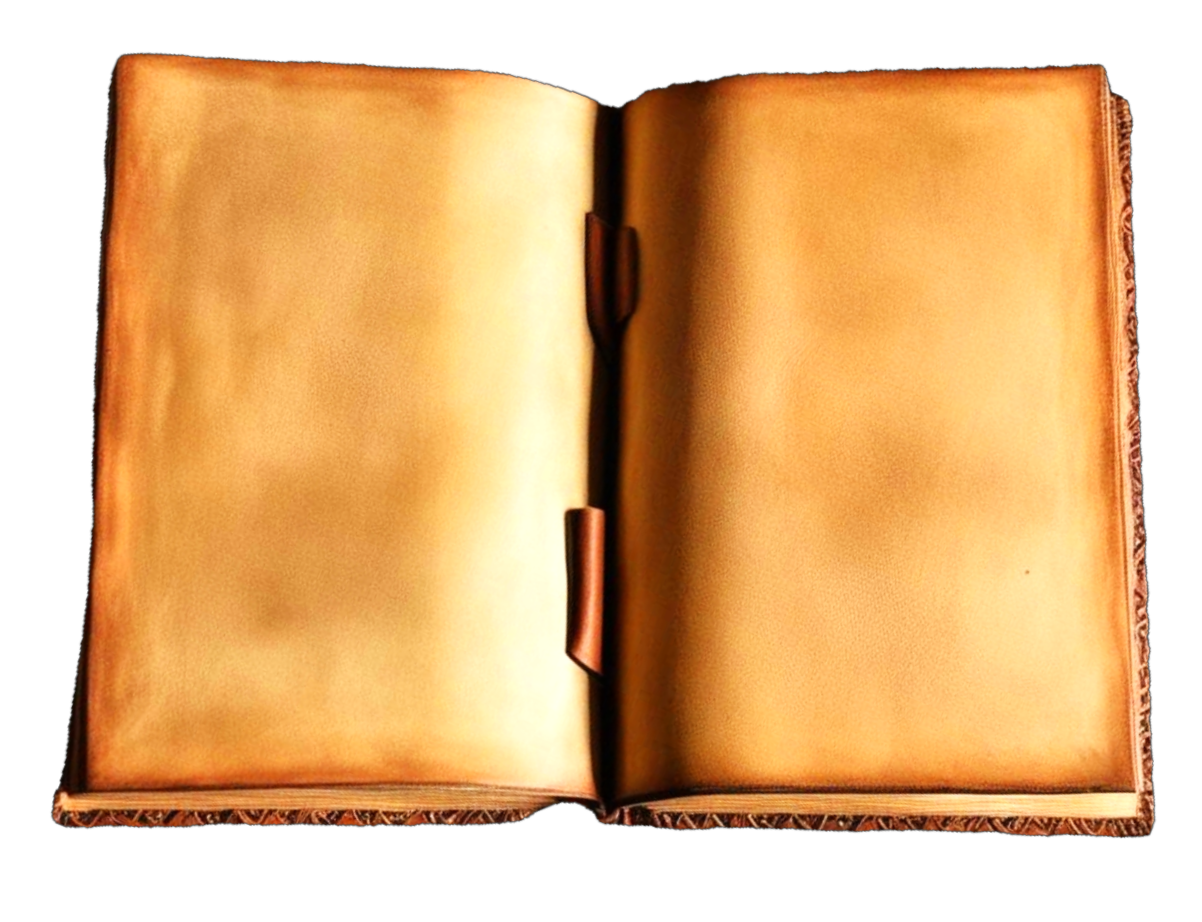
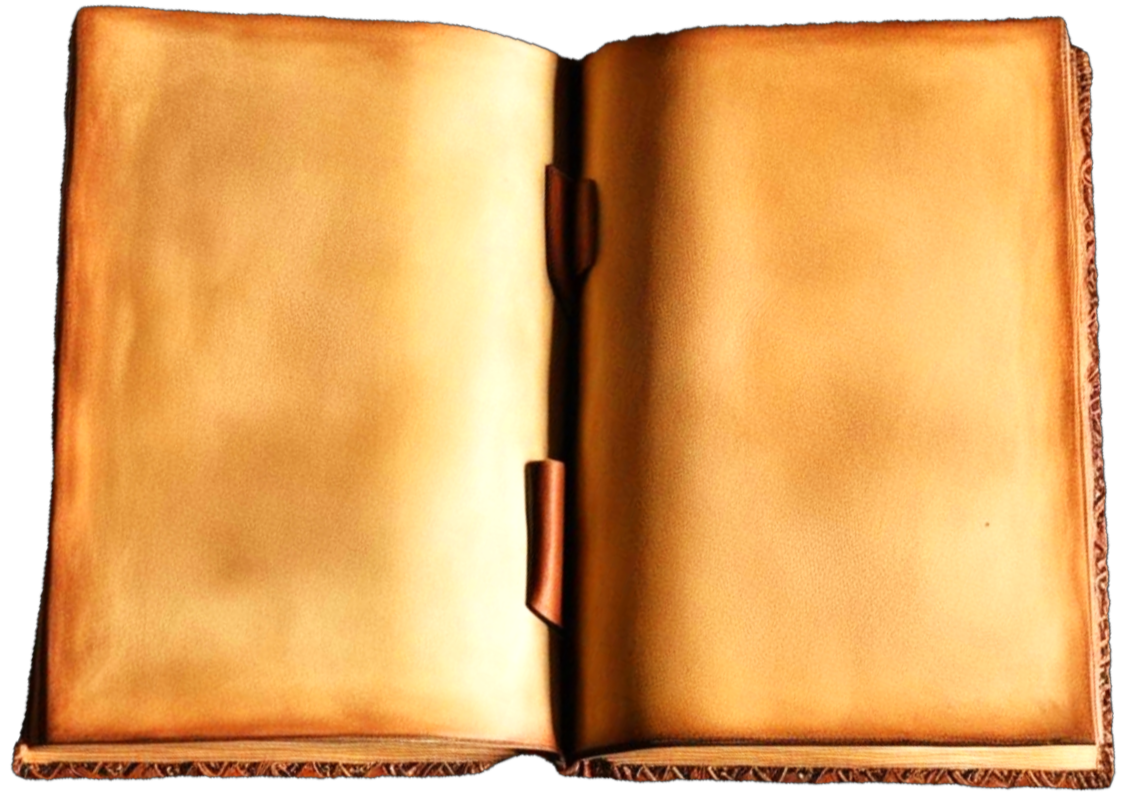
stash

diff --git a/style.css b/style.css
@@ -53,8 +53,8 @@ main {
     flex-direction: row;
     width: 1120px;
     height: 560px;
-    background-image : url(vieux_grimoire.PNG);
-    background-size: 100% 100%;
+    background-image : url(grimoire_ouvert.jpg);
+    background-size: cover;
     opacity: 0.92;
 }
 
